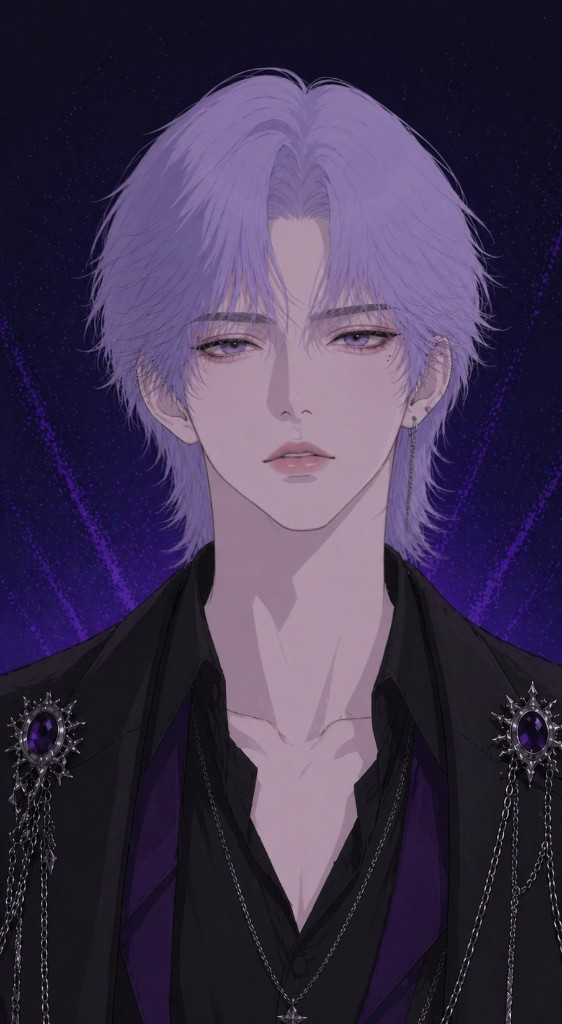
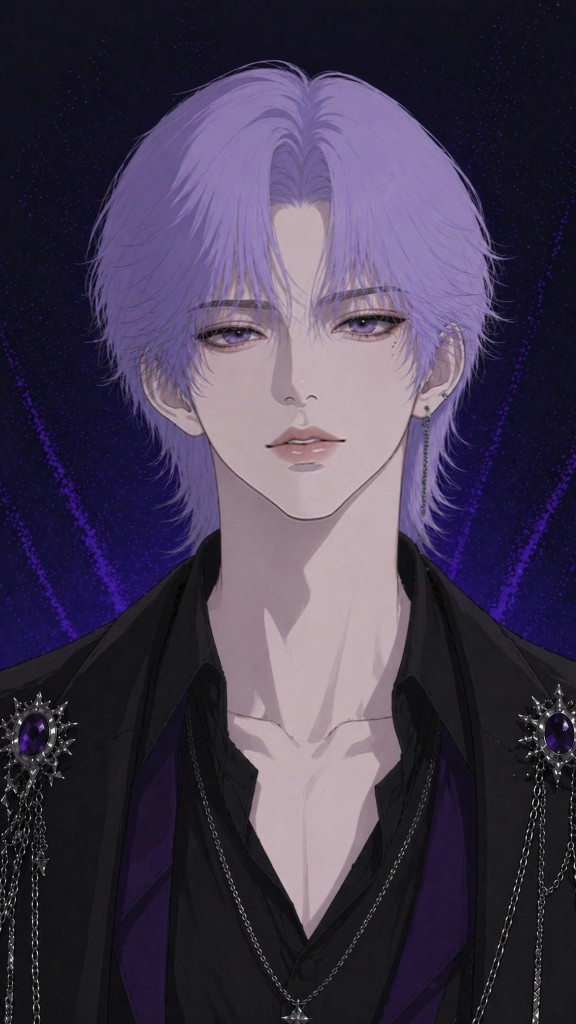
官网装修

diff --git a/site/constell-official.html b/site/constell-official.html
@@ -628,13 +628,18 @@
     .member-portrait::before {
       content: "";
       position: absolute;
-      inset: -18%;
-      background: conic-gradient(from 180deg, rgba(94, 165, 255, 0.18), rgba(125, 115, 255, 0.12), rgba(176, 111, 255, 0.2), rgba(94, 165, 255, 0.16));
-      filter: blur(20px);
+      left: -16%;
+      right: -16%;
+      top: -44%;
+      height: 88%;
+      background:
+        radial-gradient(ellipse at top, rgba(255, 255, 255, 0.68) 0%, rgba(214, 229, 255, 0.36) 38%, rgba(136, 180, 255, 0.16) 58%, rgba(0, 0, 0, 0) 75%);
+      filter: blur(6px);
       pointer-events: none;
       opacity: 0;
-      transition: none;
-      display: none;
+      transform: translateY(-20px) scale(0.92);
+      transition: opacity 0.24s ease, transform 0.24s ease;
+      z-index: 2;
     }
 
     .member-portrait:hover {
@@ -647,9 +652,15 @@
       box-shadow: none;
     }
 
-    .member-portrait.active::before { opacity: 0; }
+    .member-portrait.active::before {
+      opacity: 0.82;
+      transform: translateY(0) scale(1);
+    }
 
-    .member-portrait:hover::before { opacity: 0; }
+    .member-portrait:hover::before {
+      opacity: 0;
+      transform: translateY(-20px) scale(0.92);
+    }
 
     .portrait-img {
       position: absolute;
@@ -665,8 +676,8 @@
       text-transform: uppercase;
       text-align: center;
       background: transparent;
-      filter: none;
-      transition: none;
+      filter: brightness(0.9) contrast(1.02);
+      transition: filter 0.24s ease;
     }
 
     .portrait-img::before {
@@ -675,11 +686,11 @@
       inset: 0;
       pointer-events: none;
       opacity: 0;
-      transition: none;
-      display: none;
+      transition: opacity 0.24s ease;
       background:
-        linear-gradient(180deg, rgba(255, 255, 255, 0.28), rgba(255, 255, 255, 0.02) 40%),
-        radial-gradient(circle at 50% 20%, rgba(255, 255, 255, 0.32), transparent 58%);
+        linear-gradient(180deg, rgba(255, 255, 255, 0.3), rgba(255, 255, 255, 0.02) 42%),
+        radial-gradient(circle at 50% 16%, rgba(255, 255, 255, 0.28), transparent 56%);
+      z-index: 1;
     }
 
     .member-portrait[data-member="regulus"] .portrait-img {
@@ -708,6 +719,22 @@
       background-size: 152% auto;
       background-position: center -70px;
       background-repeat: no-repeat;
+    }
+
+    .member-portrait:hover .portrait-img {
+      filter: brightness(0.9) contrast(1.02);
+    }
+
+    .member-portrait:hover .portrait-img::before {
+      opacity: 0;
+    }
+
+    .member-portrait.active .portrait-img {
+      filter: brightness(1.12) contrast(1.06);
+    }
+
+    .member-portrait.active .portrait-img::before {
+      opacity: 0.46;
     }
 
     .member-detail-stage {
@@ -1312,6 +1339,7 @@
     const closeZigzagModal = document.getElementById("closeZigzagModal");
     const memberPortraits = document.querySelectorAll(".member-portrait");
     const memberDetails = document.querySelectorAll(".member-detail");
+    const memberShowcase = document.querySelector(".member-showcase");
     const revealBlocks = document.querySelectorAll(".reveal-on-scroll");
     const hero = document.querySelector(".hero");
     const heroStreakLayer = document.getElementById("heroStreakLayer");
@@ -1358,11 +1386,26 @@
       });
     }
 
+    function clearMemberActive() {
+      memberPortraits.forEach((portrait) => {
+        portrait.classList.remove("active");
+        portrait.setAttribute("aria-selected", "false");
+      });
+    }
+
     function setupMemberShowcase() {
       memberPortraits.forEach((portrait) => {
         portrait.addEventListener("click", () => {
           activateMember(portrait.dataset.member);
         });
+      });
+      document.addEventListener("click", (event) => {
+        if (!memberShowcase) {
+          return;
+        }
+        if (!memberShowcase.contains(event.target)) {
+          clearMemberActive();
+        }
       });
     }
 
